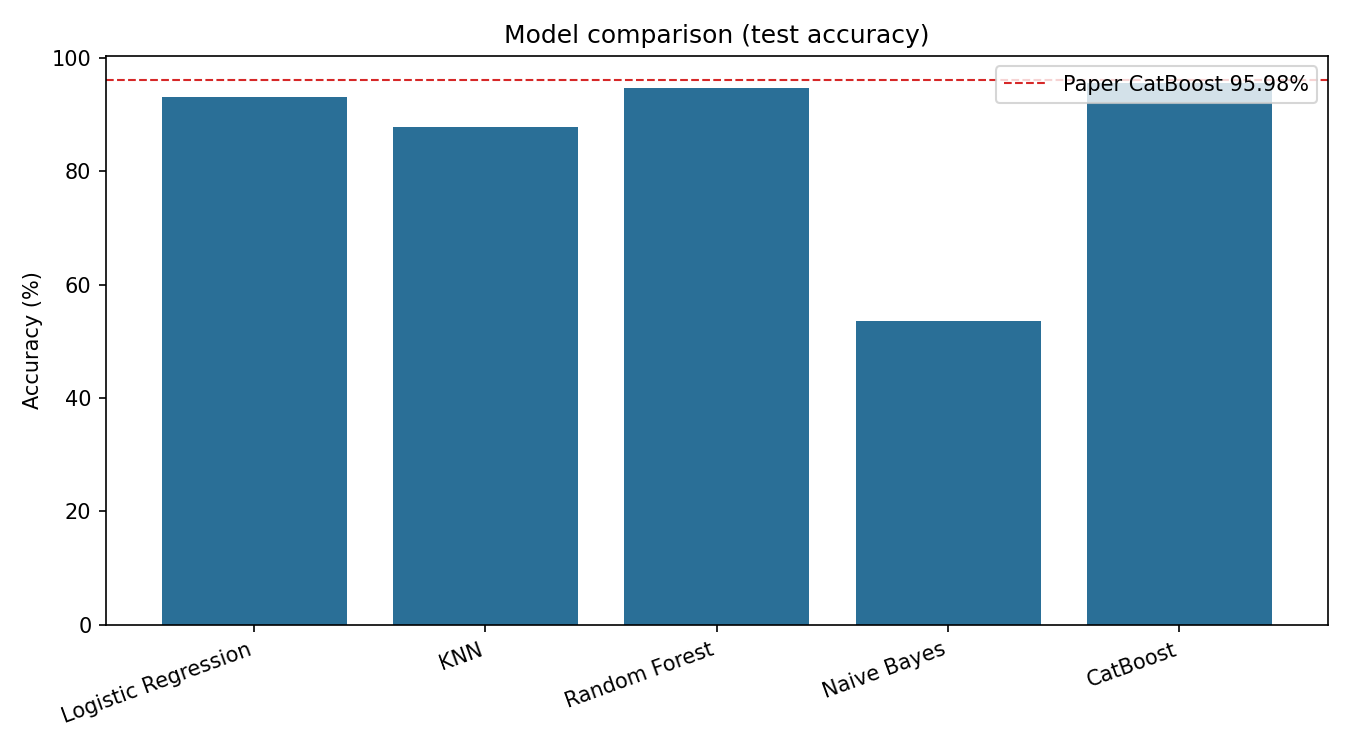
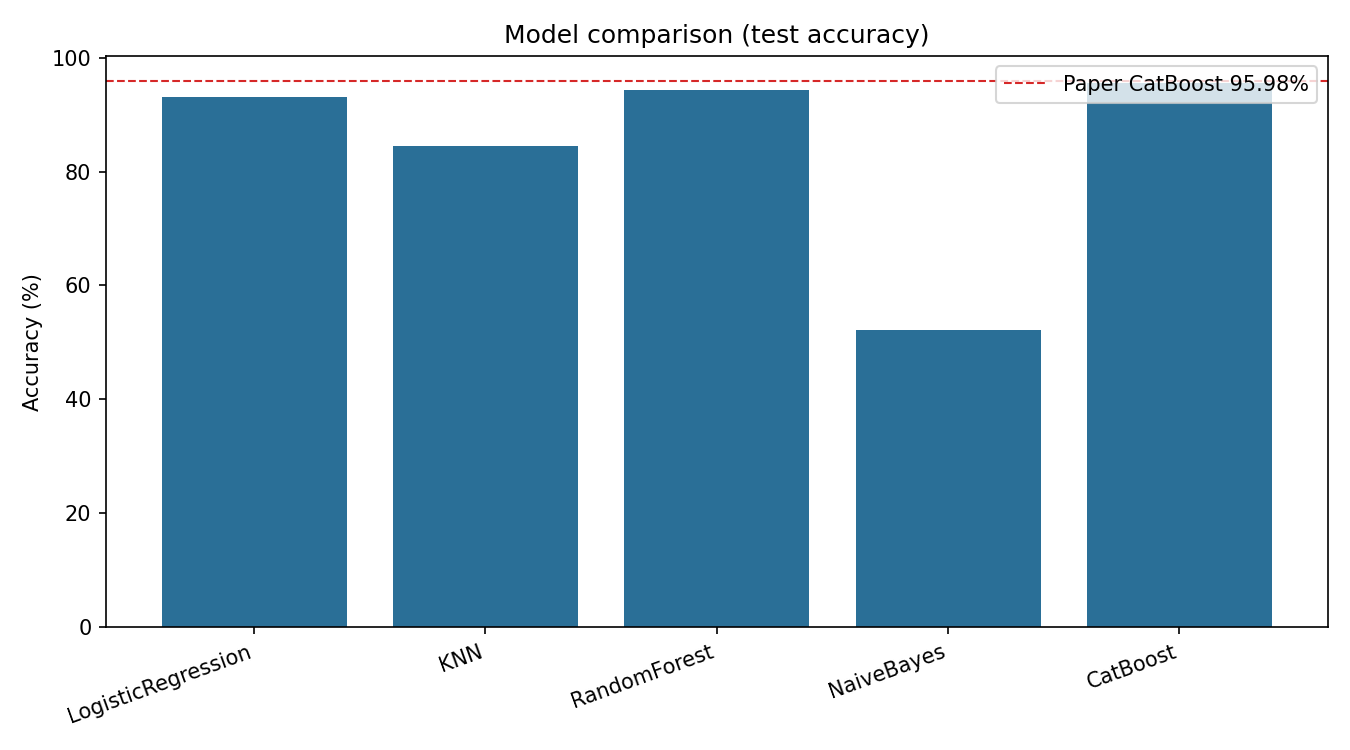
Refresh experiment outputs and keep docs/results in sync.
Capture latest CPU run metrics/figures and notebook/report updates after the main pipeline push.

diff --git a/reports/san_pham_2_nghien_cuu.md b/reports/san_pham_2_nghien_cuu.md
@@ -1,66 +1,42 @@
-# Sản phẩm 2 — Báo cáo nghiên cứu và kết quả thực nghiệm
+# Sản phẩm 2 — Báo cáo nghiên cứu
 
-## 1. Giới thiệu
+## 1. Đặt vấn đề
+Phân loại mức độ béo phì (7 lớp `NObeyesdad`) từ đặc trưng nhân khẩu học, lối sống và thói quen ăn uống. Repo tái lập thí nghiệm của Maulana et al. (2024) với CatBoost làm mô hình chính và 4 baseline.
 
-Nghiên cứu tái lập và kiểm chứng mô hình **CatBoost** để dự đoán mức độ béo phì theo Maulana et al. (2024), đồng thời so sánh với Logistic Regression, KNN, Random Forest và Naive Bayes trên tập Obesity Levels.
+## 2. Dữ liệu & tiền xử lý
+- Nguồn: Kaggle `fatemehmehrparvar/obesity-levels` (2111 × 17)
+- Pipeline (`src/preprocess.py`, theo Table 2 paper):
+  - Impute mean (liên tục) / mode (phân loại) nếu thiếu < 5%
+  - Binary yes/no → 0/1
+  - One-hot: `Gender`, `CAEC`, `CALC`, `MTRANS`
+  - `StandardScaler` cho biến liên tục + binary đã mã hóa
+  - Split **80:20 stratified**, `random_state=42`
 
-## 2. Phát biểu bài toán
+## 3. Mô hình
+| Vai trò | Thuật toán | Ghi chú |
+|---|---|---|
+| Main | CatBoost | Best paper: `lr=0.05`, `depth=8`, `l2_leaf_reg=5`, `iterations=300` |
+| Baseline | Logistic Regression, KNN, Random Forest, Naive Bayes | Grid search + Stratified 5-fold (CPU) |
 
-Cho vector đặc trưng nhân khẩu học / lối sống \(x\), dự đoán nhãn \(y \in\) {Insufficient Weight, Normal Weight, Overweight Level I/II, Obesity Type I/II/III}.
+Chạy: `python -m src.train` (local CPU).
 
-**Mục tiêu:** đạt accuracy test gần mức paper (~95.98% với CatBoost) và phân tích đặc trưng quan trọng.
+## 4. Kết quả
+Số liệu chạy local được ghi vào:
 
-## 3. Dữ liệu và tiền xử lý
+- `results/baseline_results.csv` — 4 baseline
+- `results/main_results.csv` — CatBoost
+- `results/all_models_results.csv` — bảng so sánh kiểu Table 4
+- `results/figures/catboost_confusion_matrix.png`
+- `results/figures/catboost_feature_importance.png`
+- `results/catboost_feature_importance.csv`
 
-- 2111 mẫu, 17 cột; target `NObeyesdad`.
-- Theo Table 2: impute mean/mode, one-hot categorical, StandardScaler, split **80:20 stratified** (`random_state=42`) → train 1688 / test 423.
-- Triển khai: `src/preprocess.py`.
+**Tham chiếu paper (Table 4):** CatBoost Acc ≈ **95.98%**. Kết quả local có thể lệch nhẹ do seed / triển khai grid baseline.
 
-## 4. Phương pháp
+## 5. Thảo luận ngắn
+- CatBoost thường vượt baseline nhờ xử lý tốt đặc trưng phân loại và regularization.
+- Feature importance thường nhấn mạnh **Weight / Height / Gender** (gần với BMI) — khớp paper Figure 3.
+- Hạn chế: ~77% dữ liệu synthetic; cần thận trọng khi suy diễn lâm sàng.
 
-- **CatBoost** (main): `learning_rate=0.05`, `depth=8`, `l2_leaf_reg=5`, `iterations=300` (CPU).
-- **Baseline:** GridSearchCV + StratifiedKFold(5) trong `src/train.py`.
-- **Đánh giá:** accuracy / precision / recall / F1 weighted; confusion matrix; feature importance.
-
-## 5. Thiết kế thực nghiệm
-
-```bash
-python -m src.download_data
-python -m src.train
-```
-
-Chạy trên **CPU local**. Kết quả: `results/`.
-
-## 6. Kết quả (CPU local)
-
-| Model | Accuracy (%) | Precision (%) | Recall (%) | F1 (%) | Paper Acc (%) |
-|-------|--------------|---------------|------------|--------|---------------|
-| **CatBoost** | **95.51** | **95.60** | **95.51** | **95.53** | 95.98 |
-| Random Forest | 94.56 | 95.07 | 94.56 | 94.67 | 95.04 |
-| Logistic Regression | 93.14 | 93.12 | 93.14 | 93.10 | 65.48 |
-| KNN | 87.71 | 87.29 | 87.71 | 87.24 | 88.18 |
-| Naive Bayes | 53.66 | 57.13 | 53.66 | 50.41 | 94.07 |
-
-Nguồn: `results/comparison_results.csv`, `results/main_results.csv`.
-
-Hình: `results/figures/catboost_confusion_matrix.png`, `catboost_feature_importance.png`, `model_comparison.png`.
-
-## 7. Thảo luận
-
-- CatBoost của nhóm đạt **95.51%**, lệch **−0.47 pp** so với paper (95.98%) — cùng bậc độ chính xác; khác biệt có thể do seed, chi tiết encode binary, hoặc grid baseline.
-- Thứ tự mô hình giống paper: CatBoost > RF > … ; KNN gần paper (88.18%).
-- Logistic Regression của nhóm (~93%) cao hơn số paper (65.48%) — có thể paper dùng cấu hình/encode khác.
-- Naive Bayes paper ghi Acc 94% nhưng Precision/Recall thấp (~64–72%); kết quả local (~54%) hợp lý hơn với GaussianNB trên one-hot + scaled features.
-- Feature importance: xem `results/feature_importance_catboost.csv` (kỳ vọng Weight/Height/Gender nổi bật như Figure 3).
-
-## 8. Hạn chế và hướng phát triển
-
-- Dataset có tỷ lệ dữ liệu tổng hợp cao (~77% SMOTE).
-- Chưa validate trên quần thể thực tế Việt Nam.
-- Hướng tiếp: engineered BMI, cân bằng lớp, so sánh LightGBM/XGBoost, hoặc full grid Table 3 (`python -m src.train --tune-catboost`).
-
-## 9. Tài liệu tham khảo
-
-1. Maulana et al. (2024). Predicting Obesity Levels with High Accuracy… *Infolitika Journal of Data Science*. DOI: 10.60084/ijds.v2i1.195
-2. Paleiro et al. — nguồn dataset Obesity Levels (UCI / Kaggle).
-3. Đề bài AI Midterm — `docs/AI_Midterm_Project.pdf`
+## 6. Tài liệu tham khảo
+1. Maulana, A., et al. (2024). Predicting Obesity Levels with High Accuracy: Insights from a CatBoost Machine Learning Model. *Infolitika Journal of Data Science*, 2(1). DOI: 10.60084/ijds.v2i1.195
+2. Đề bài AI Midterm — `docs/AI_Midterm_Project.pdf`

diff --git a/README.md b/README.md
@@ -38,14 +38,15 @@ python -m src.train
 python -m src.train --tune-catboost
 ```
 
-Kết quả mong đợi (paper Table 4, test set): CatBoost ~95.98% accuracy; so sánh LR / KNN / RF / Naive Bayes.
+Kết quả local (CPU, seed=42): **CatBoost 95.51%** (paper 95.98%); RF 94.56%; LR 93.14%; KNN 87.71%; NB 53.66%.
 
 Output chính:
 
-- `results/baseline_results.csv`, `results/main_results.csv`
-- `results/all_models_results.csv`, `results/paper_comparison.csv`
-- `results/figures/catboost_confusion_matrix.png`
-- `results/figures/catboost_feature_importance.png`
+- `results/baseline_results.csv`, `results/main_results.csv`, `results/comparison_results.csv`
+- `results/paper_comparison.json`, `results/best_params.json`
+- `results/figures/confusion_matrix_catboost.png`
+- `results/figures/feature_importance_catboost.png`
+- `results/figures/model_comparison.png`
 
 ## Workflow
 
